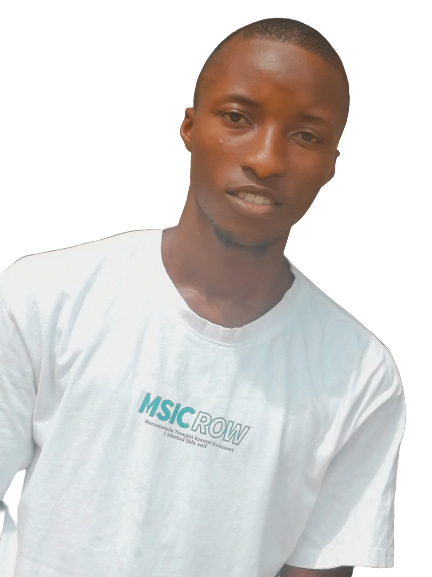
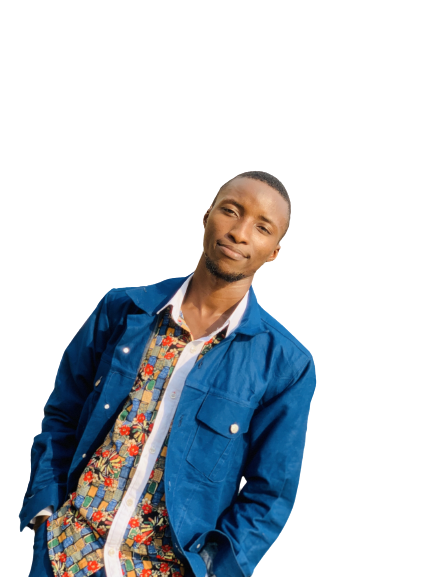
dark and light mode

diff --git a/src/components/experience/experience.js b/src/components/experience/experience.js
@@ -6,20 +6,20 @@ import { BsPatchCheckFill} from 'react-icons/bs'
 export const Experience = () =>{
     return(
         <section id="experience">
-            <h5>What Skills I Have</h5>
+            <h5 className="text-[#191919] dark:text-[#fff]">What Skills I Have</h5>
             <h2>Experience</h2>
 
             <div className="container experience_container">
-                <div className="experience_frontend">
+                <div className="experience_frontend bg-transparent border-2 border-[#4dbfff]">
                     <h3>
                         Frontend Developmrnt
                     </h3>
-                    <div className="experience_content">
+                    <div className="experience_content ">
                         <article className="experience_details">
                              < BsPatchCheckFill className="experience_details-icon" />
                              <div>
                              <h4>HTML</h4>
-                             <small className="text-light">Experienced</small>
+                             <small className=" text-[#191919] dark:text-[rgba(255,255,255,0.6)]">Experienced</small>
                              </div>
                             
                         </article>
@@ -28,14 +28,14 @@ export const Experience = () =>{
                              <div>
 
                              <h4>CSS</h4>
-                             <small className="text-light">Experienced</small>
+                             <small className=" text-[#191919] dark:text-[rgba(255,255,255,0.6)]">Experienced</small>
                              </div>
                         </article>
                         <article className="experience_details">
                              < BsPatchCheckFill className="experience_details-icon" />
                              <div>
                              <h4>Javascrit</h4>
-                             <small className="text-light">Experienced</small>
+                             <small className=" text-[#191919] dark:text-[rgba(255,255,255,0.6)]">Experienced</small>
 
                              </div>
                         </article>
@@ -43,7 +43,7 @@ export const Experience = () =>{
                              < BsPatchCheckFill className="experience_details-icon" />
                              <div>
                              <h4>Bootstrap</h4>
-                             <small className="text-light">Experienced</small>
+                             <small className=" text-[#191919] dark:text-[rgba(255,255,255,0.6)]">Experienced</small>
 
                              </div>
                         </article>
@@ -52,14 +52,14 @@ export const Experience = () =>{
                              <div>
 
                              <h4>Tailwind</h4>
-                             <small className="text-light">Experienced</small>
+                             <small className=" text-[#191919] dark:text-[rgba(255,255,255,0.6)]">Experienced</small>
                              </div>
                         </article>
                         <article className="experience_details">
                              < BsPatchCheckFill className="experience_details-icon" />
                              <div>
                              <h4>React</h4>
-                             <small className="text-light">Experienced</small>
+                             <small className=" text-[#191919] dark:text-[rgba(255,255,255,0.6)]">Experienced</small>
                                 
                              </div>
                         </article>
@@ -67,32 +67,40 @@ export const Experience = () =>{
                     </div>
                    
                 </div>
-                <div className="experience_Backend">
+                <div className="experience_Backend bg-transparent border-2 border-[#4dbfff]">
                     <h3>
-                        Backend Developmrnt
+                        Additonal Skills
                     </h3>
-                    <div className="experience_content"> 
+                    <div className="experience_content "> 
                         <article className="experience_details">
                              < BsPatchCheckFill className="experience_details-icon" />
                              <div>
                                 
-                             <h4>PHP</h4>
-                             <small className="text-light">basics</small>
+                             <h4>Framer</h4>
+                             <small className="text-[#191919] dark:text-[rgba(255,255,255,0.6)]">basics</small>
                             </div>
                         </article>
                         <article className="experience_details">
                              < BsPatchCheckFill className="experience_details-icon" />
                              <div>
-                             <h4>MySQL</h4>
-                             <small className="text-light">basics</small>
+                             <h4>Bootstrap</h4>
+                             <small className="text-[#191919] dark:text-[rgba(255,255,255,0.6)]">Experienced</small>
                                 
                             </div>
                         </article>
                         <article className="experience_details">
                              < BsPatchCheckFill className="experience_details-icon" />
                              <div>
-                             <h4>Python</h4>
-                             <small className="text-light">basics</small>
+                             <h4>Node</h4>
+                             <small className="text-[#191919] dark:text-[rgba(255,255,255,0.6)]">basics</small>
+                                
+                                </div>
+                        </article>
+                        <article className="experience_details">
+                             < BsPatchCheckFill className="experience_details-icon" />
+                             <div>
+                             <h4>GIT Control</h4>
+                             <small className="text-[#191919] dark:text-[rgba(255,255,255,0.6)]">Experienced</small>
                                 
                                 </div>
                         </article>

diff --git a/src/components/about/about.js b/src/components/about/about.js
@@ -1,6 +1,6 @@
 import React from "react";
 import "./about.css";
-import ME from "../../assets/me2.jpg";
+import ME from "../../assets/me2.png";
 import { FiAward } from "react-icons/fi";
 import { FiUsers } from "react-icons/fi";
 import { CgFolder } from "react-icons/cg";
@@ -8,8 +8,8 @@ import { CgFolder } from "react-icons/cg";
 export const About = () => {
   return (
     <section id="about">
-      <h5>Get To Know</h5>
-      <h2>About Me</h2>
+      <h5 className="text-[#191919] dark:text-[#fff]">Get To Know</h5>
+      <h2 >About Me</h2>
 
       <div className="container about_container">
         <div className="about_me">
@@ -20,10 +20,10 @@ export const About = () => {
 
         <div className="about_content">
           <div className="about_cards">
-            <article className="about_card">
+            <article className="about_card ">
               <FiAward className="about_icon" />
               <h5>Experience</h5>
-              <small>1+ years working</small>
+              <small className="text-[#191919] dark:text-[#fff]">1+ years working</small>
             </article>
             <article className="about_card">
               <FiUsers className="about_icon" />
@@ -33,11 +33,11 @@ export const About = () => {
             <article className="about_card">
               <CgFolder className="about_icon" />
               <h5>Project</h5>
-              <small>20+ completed</small>
+              <small>20+  completed</small>
             </article>
           </div>
 
-          <p>
+          <p className="text-[#191919] dark:text-[rgba(255,255,255,0.6)]">
             Front-End Developer with a proven ability to collaborate effectively
             with senior developers while spending extra time to be mentored.
             Enjoy working closely with team members to ensure workloads are

diff --git a/src/components/experience/experience.css b/src/components/experience/experience.css
@@ -5,10 +5,10 @@
 }
 
 .experience_container > div{
-    background: var(--color-bg-variant);
+    /* background: var(--color-bg-variant); */
     padding: 2.4rem;
     border-radius: 2rem;
-    border: 1px solid transparent;
+    /* border: 1px solid transparent; */
     transition: var(--transition);
 }
 .experience_container > div:hover{
@@ -25,6 +25,10 @@
 
 .experience_content{
     display: grid;
+    padding: 2.4rem;
+    border-radius: 2rem;
+    /* border: 1px solid transparent; */
+    transition: var(--transition);
     grid-template-columns: 1fr 1fr;
     row-gap: 2rem;
 }

diff --git a/src/components/about/about.css b/src/components/about/about.css
@@ -37,7 +37,6 @@
     border: 1px solid transparent;
     border-radius: 1rem;
     padding: 3rem;
-    text-align: center ;
     transition: var(--transition);
 }
 .about_card:hover{
@@ -60,7 +59,7 @@
 
 .about_content p{
     margin:2rem 0 2.6rem ;
-    color: var(--color-light);
+   
 }
 
 
